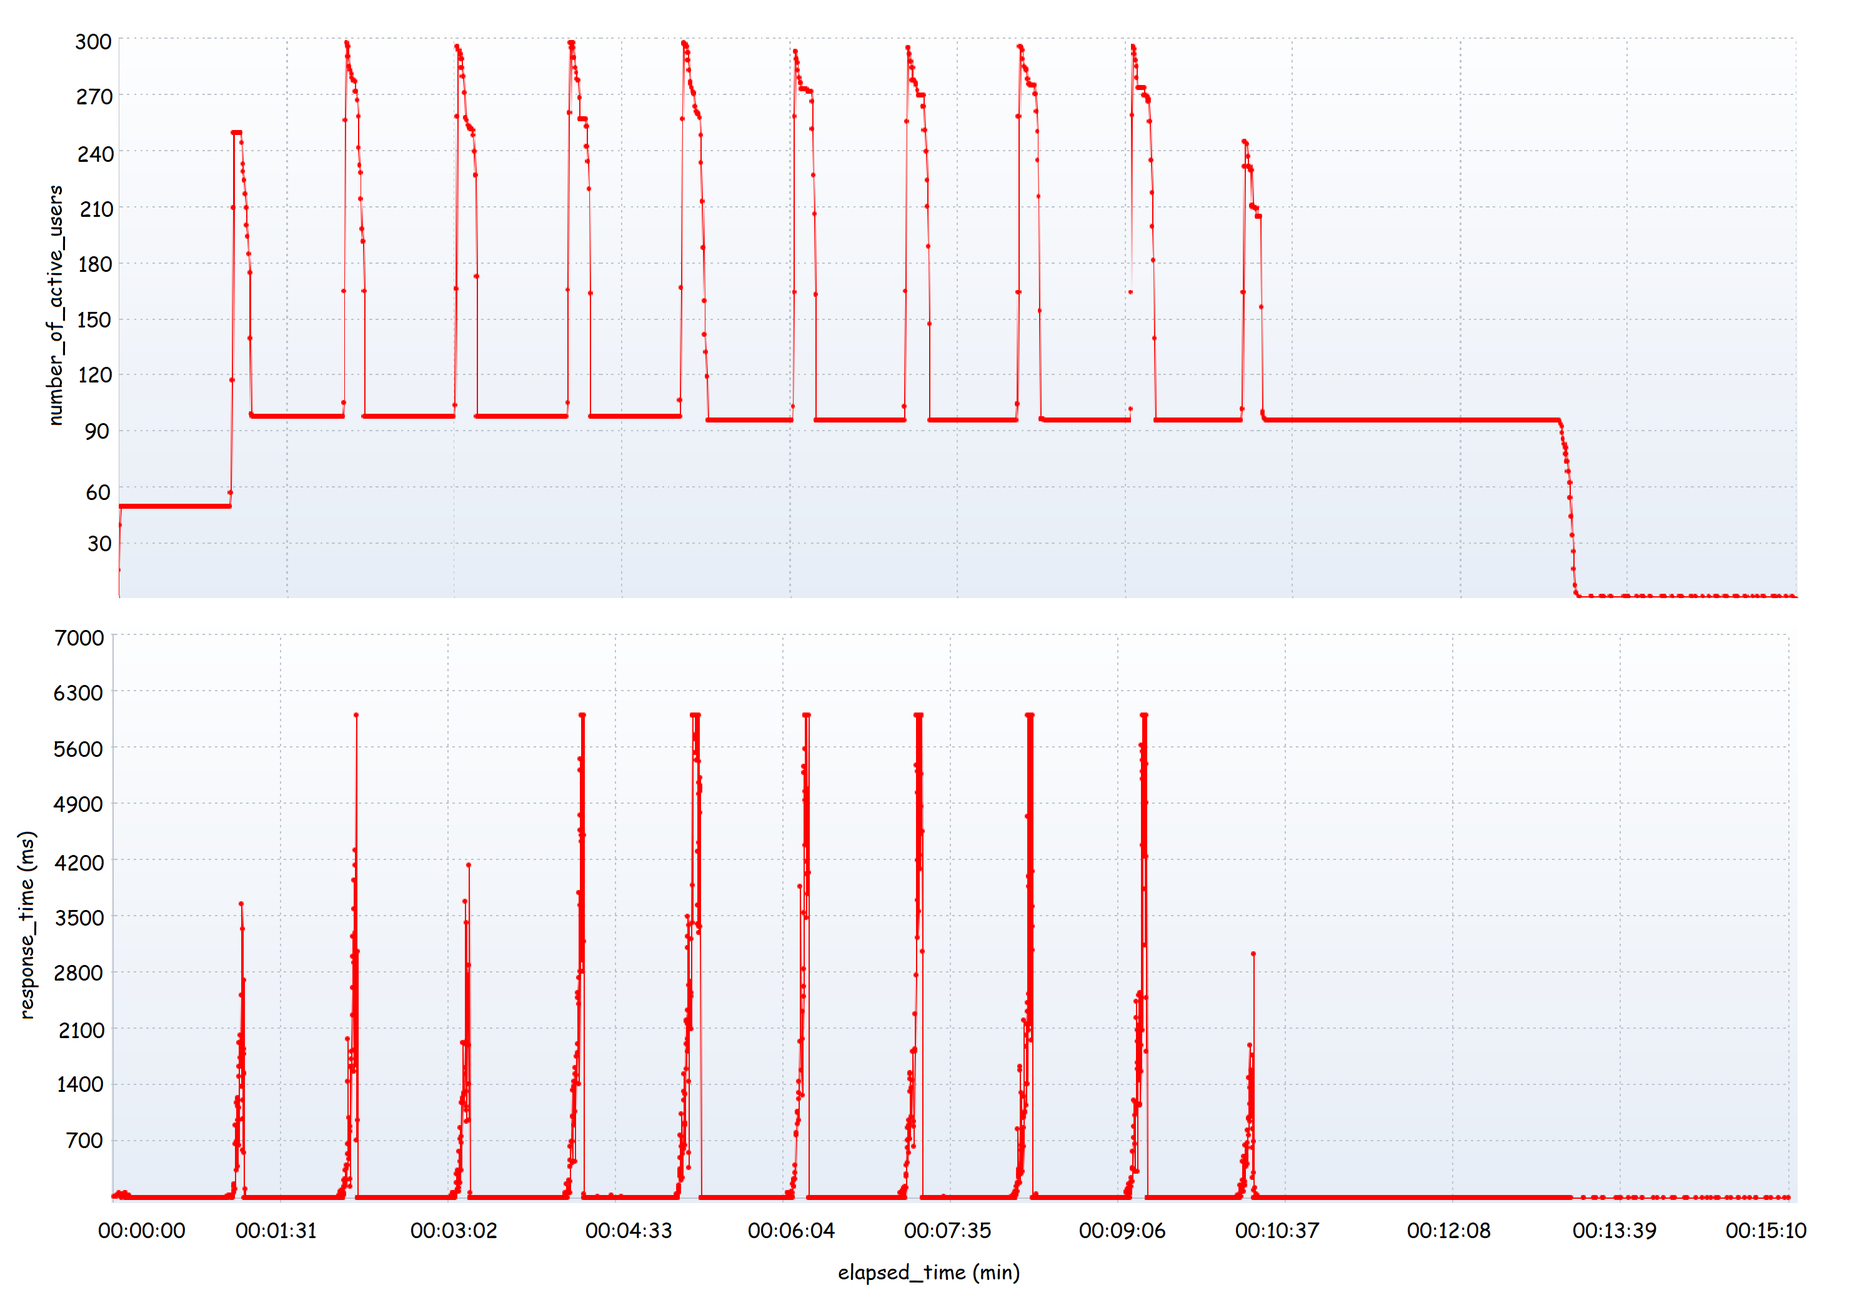
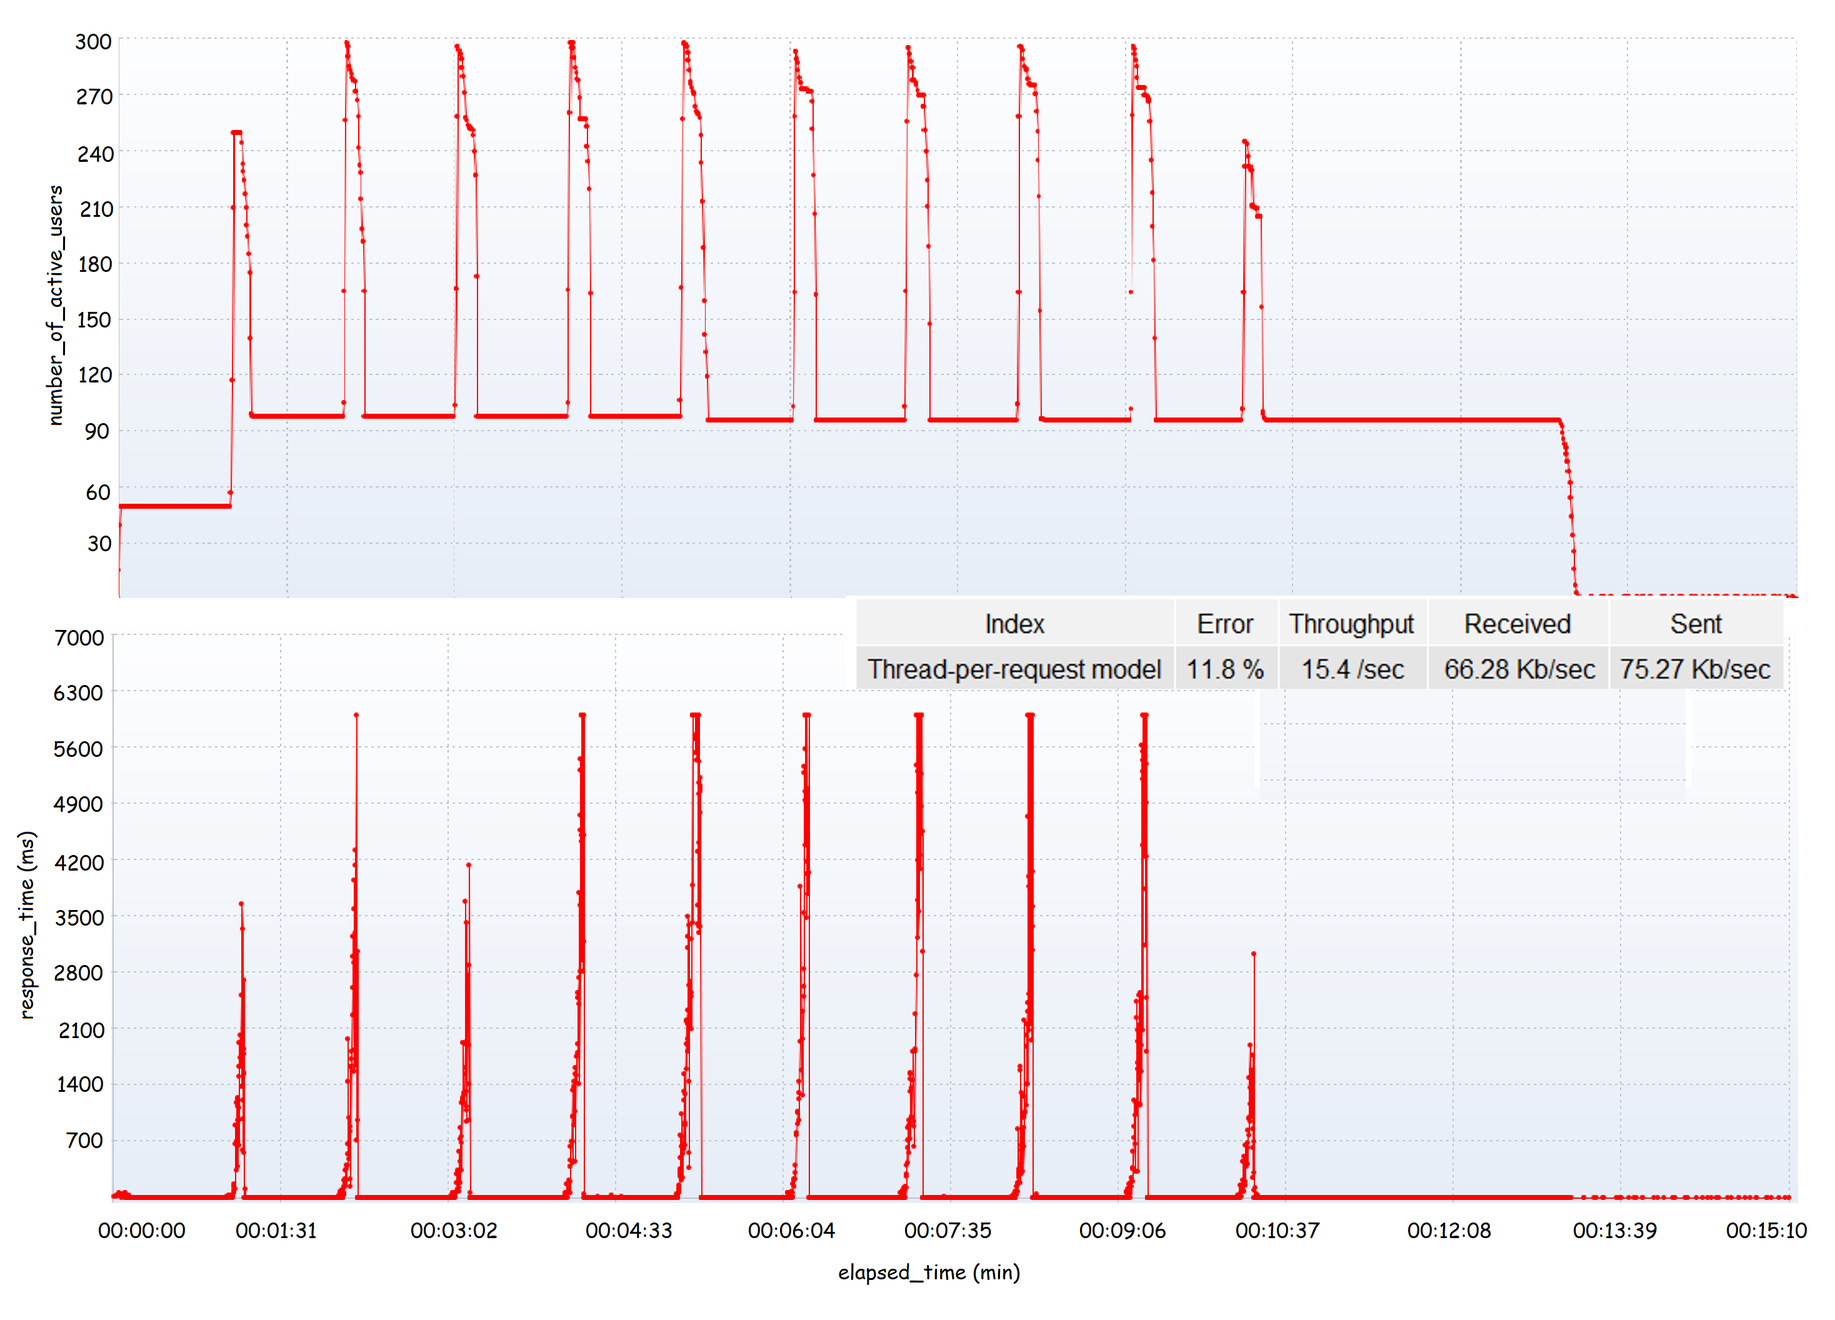
added paragraph for 12000 concurrent users

diff --git a/_posts/2023-01-12-websockets.md b/_posts/2023-01-12-websockets.md
@@ -1,84 +1,79 @@
 ---
 layout: post
-title: "WebSockets: a comparison between open-source technologies"
+title: "WebSockets: a Comparison between Open-Source JVM Technologies"
 author: matteo.ricci
-categories: [ Software Development ]
+categories: [ Software Development, Backend, Web Development, Websocket, Kotlin, Java, Spring-Boot, Ktor, JVM ]
 image: assets/images/websockets/0.png
-excerpt: "Benchmarking  WebSocket server performaces through a simple experiment"
+excerpt: "A Benchmark of some JVM WebSocket Servers"
 ---
 
 ## Introduction
 WebSocket is a communication protocol that supplies two-way communication between client and server.
-When a client starts a connection with a WebSockets server, this latter can push messages to all the connected clients. 
+When a client opens a WebSockets, the server can push back messages at any time. 
 That is in contrast with the **HTTP** client-server model, where a server cannot initiate a 
-message transfer to a client but can only respond to an **HTTP** request started by a client. 
-Further, by keeping the communication channel open, a WebSockets server allows the simultaneous sending and receiving 
+message transfer to a client but can only respond to an **HTTP** request from a client. 
+By keeping the communication channel open, a WebSockets server allows the simultaneous sending and receiving 
 of messages among the connected clients through the server itself. 
 
 <center>
     <img src="{{ site.url }}{{ site.baseurl }}/assets/images/websockets/1.png" width="400">
     <br>
-    <em> A WebSocket server receives messages and notifies subscribers (Image generated by the author with E-Dell)</em>
+    <em> A WebSocket server receives messages and notifies subscribers (Image generated by the author with <a href="https://openai.com/dall-e-2/">E-Dell</a>)</em>
 </center>
-
-In this work, we employed state-of-the-art, open-source, **JVM** technologies to assess the performances of a WebSocket server under progressive system overload. The focus of the study is comparing two event-loop models: **Spring Webflux** and **Ktor**.
-Nonetheless, some room for a didactical discussion will be left, explicitly showing the performance gap achieved by employing a thread-per-request Spring Boot WebSockets engine.
+<br>
+In this work, I employed state-of-the-art, open-source, **JVM** technologies to assess the performances of a WebSocket server under progressive system overload. The focus of the study is comparing two non-blocking models: **Spring Webflux** and **Ktor**.
+We will compare those systems also with a thread-per-request engine. I will leave room for a discussion about the Spring Boot WebSockets engine, highlighting the 
+performance gap between these models.
 
 ## Methods
-Our primary goal is to think about a minimal system involving WebSockets communication so that all the side effects (e.g., latency) are negligible. 
-That is done by implementing an echo server, in which both the server and client run on a local machine.
-This system forwards to the client the message the client has just sent. Such a simple toy model allows us to apply progressive system overload by increasing the number of concurrent users exchanging messages with the echo server. 
-The run is carried out with **Apache JMeter** and is structured in the following way:
-- We consider an initial chunk of 50 users connected to the echo server. 
-- We keep increasing connections in chunks of 200 up to the **maximum overload state**, with 2000 concurrent users.
-- We keep the system in the maximum overload state for 3 minutes.
-- We start dropping out connections in chunks of 400 until the number of active connections drops to 0.
+Our primary goal is to think about a minimal system, making the side effects not relevant. Latency for example.
+This can be done with an echo server, in which both the server and client run on a local machine.
+This system forwards to the client the message the client has just sent. 
+Such a simple toy model allows us to apply progressive system overload by increasing the number of concurrent users. 
+I will perform two different runs for each tecnhology. Both of them are carried out with **Apache JMeter**. 
+
+The first one (from now on **easy mode**) is structered in the following way: 
+- consider an initial chunk of 50 users connected to the echo server. 
+- keep increasing connections in chunks of 200 up to the **maximum overload state**, with 2000 concurrent users.
+- keep the system in the maximum overload state for 3 minutes.
+- start dropping out connections in chunks of 400 until the number of active connections drops to 0.
 If any communication errors happen, the existing connection will be closed, kicking out the user from the echo server.
 
-Separate runs for each of the two event-loop technologies are performed. The following quantities are of interest:
-- raw data describing the server response over time.
-- the actual number of concurrent users over time (may be different from the planned one, since if a communication error happens, the connection will be closed).
-- the percentage of requests processed with an error outcome.
-- the number of exchanged bytes between the concurrent clients and the echo server.
-- the echo-server throughput.
+The second run (from now on **hard mode**) has the following structure:
+- in a time range of 30 seconds, increase the number of active connections from 0 up to 12000
+- keep the system in the maximum overload state for 1000 seconds.
+- drop all the existing connections.
 
-Finally, we perform the simulation using a **5 kb** text sample to exchange between the client and server. 
-In particular, to simulate a real-life scenario, we require every user to exchange messages with the echo server according to a time-based Gaussian distribution. 
+During the simulations, we care about:
+- collect data describing the server response over time.
+- the actual number of concurrent users over time (may be different from the planned one, since if a communication error happens the connection will be closed).
+- the percentage of requests processed with an error outcome.
+- the number of exchanged bytes between the clients and the echo server.
+- the server throughput (number of requests processed per second).
+
+Every simulation is performed using a **5 kb** text sample to exchange between the client and server. 
+
+We will have **many clients** continuously exchanging messages with the server for both **easy** and **hard** modes. 
+In these scenarios, if the delay between consecutive messages from the same user is too little, 
+the server will be unable to deal with the overload. This should be avoided.
+A good compromise is imposing every user has a *physiological* delay when exchaning consecutive messages.
+This perfectly matches with a real-world-use case. 
+For this reason, I modeled the delay between consecutive messages of a single user with a Gaussian distribution. 
+This distribution has **mean value** of **5 sec.** and **standard deviation** of **2 sec.** 
 
 <center>
     <img src="{{ site.url }}{{ site.baseurl }}/assets/images/websockets/3.png" width="400">
     <br>
+    <br>
     <em> Gaussian distribution of the delay every user exchanges messages with. The image is generated by the author.</em>
 </center>
-
-The Gaussian distribution means value and standard deviation are 5 and 2 seconds. 
-This means that the probability every user waits between 1 and 9 seconds before exchanging the second message with the echo server is almost maximized (**95%**).
-
-## Results and Conclusions
-In this section, we present the results achieved using the methodology explained in the previous section.
-<center>
-    <img src="{{ site.url }}{{ site.baseurl }}/assets/images/websockets/ktor_webflux_2000.png" width="1000">
-    <br>
-    <em> In the top panel the number of connected users during the run is presented. In the bottom panel, the comparison between the even-loop-based echo server performances is shown. The Image produced by the author using the software R. </em>
-</center>
-For both the technologies employed, none of the incoming requests have an error outcome. 
-Also, the amount of exchanged Kb per second and the server throughputs are very similar: so far seems that both technologies are pretty performant. 
-
-However, let's try to deeper investigate what we have achieved to have a more solid understanding of what happened.
-The dotted lines represent the raw data of the server response over time, directly from **Apache JMeter** without any post-processing. 
-As we can see, randomly distributed higher peaks corresponding to fluctuations up to 20 ms are present. 
-To understand the relative impact of those peaks with respect to the averagely observed values, 
-we made an interpolation of the raw data using the software **R**. The results of this procedure are shown with solid lines. 
-Looking at those lines, it is clear that, regardless of fluctuations, 
-the average response time for **Ktor** lies slightly below 
-the one observed for **WebFlux**, thus providing a better understanding of what is going on with the 
-overall simulation parameters in the table. 
-Indeed, the interpolated trends reflect the slightly higher server throughput and the number of bytes 
-exchanged with the concurrent clients achieved by **Ktor**. Most importantly, it indicates the low impact of the observed fluctuations along the simulation, showing that both technologies ensure stability during the run. 
+<br>
+Using this model, we ensure that *averagely* each user exchanges a message with the server every 5 seconds and 
+the probability of waiting between 1 and 9 seconds before exchanging another message is almost maximized (**95%**).
 
 The code snippets for **Ktor** and **Webflux** echo servers are listed below.
 
-<p style="margin : 0; padding-bottom:0;"> <em> Ktor WebSocket server.</em> </p>
+<p style="margin : 0; padding-bottom:0;"> <em> Ktor WebSocket server. Ktor version: 2.3.2 -see <a href="https://ktor.io/docs/websocket.html">here</a>).</em> </p>
 ```kotlin
 fun Application.configureSockets() {
     install(WebSockets) {
@@ -100,7 +95,7 @@ fun Application.configureSockets() {
 ```
 
 
-<p style="margin : 0; padding-bottom:0;"> <em> WebFlux WebSocket server.</em> </p>
+<p style="margin : 0; padding-bottom:0;"> <em> WebFlux WebSocket server. Spring-Boot version: 2.6.7</em> </p>
 ```java
 @Component
 public class ReactiveServerWebSocketHandler implements WebSocketHandler {
@@ -113,40 +108,55 @@ public class ReactiveServerWebSocketHandler implements WebSocketHandler {
                 .map(session::textMessage)
         );
     }
-
-    @Override
-    public @NotNull
-    List<String> getSubProtocols() {
-        return WebSocketHandler.super.getSubProtocols();
-    }
 }
 ```
 
+## Maximum overload of 2000 users (easy mode)
+In this section I investigate how the systems responds when the maximum amount of concurrent users is reasonably small and the maximum overload state is reached progressively.
+<center>
+    <img src="{{ site.url }}{{ site.baseurl }}/assets/images/websockets/ktor_webflux_2000.png" width="1000">
+    <br>
+    <em> In the top panel the number of connected users during the run is presented. In the bottom panel, the comparison between the even-loop-based echo server performances is shown. The Image produced by the author using the software R. </em>
+</center>
+<br>
+For both the technologies employed, none of the incoming requests have an error outcome. 
+Also, the amount of exchanged Kb per second and the server throughputs are very similar: so far it seems that both technologies are pretty performant. 
 
-After this digression, we can conclude that **Ktor** has performed slightly better, although we have observed a very 
-high-quality performance for **WebFlux**. 
+However, let's try to deeper investigate the results.
+The dotted lines represent the raw data of the server response over time. 
+As we can see, randomly distributed higher peaks corresponding to fluctuations up to 20 ms are present. 
+To understand the relative impact of those peaks with respect to the averagely observed values, 
+I made an interpolation of the raw data using the software **R**. The results of this procedure are shown with solid lines. 
+Looking at those lines, it is clear that, regardless of fluctuations, 
+the average response time for **Ktor** lies slightly below 
+the one observed for **WebFlux**. This clarifies what is going on with the overall simulation parameters reported in the table. 
+Indeed, the interpolated trends reflect the slightly better simulation results of **Ktor**. 
+Most importantly, it indicates the low impact of the observed fluctuations. So far, both the technologies ensure stability during the run. 
 
-However, we should point out that the presented results rely on a single run, which means they lack statistical ensemble wideness. 
-In other words, to give a better outcome about the best-performing, we should carry out many runs and consider the average results from each of them.
-
-## A Didactical Digression
-It is interesting to carry out the same experiment by adopting a thread-per-request model, to observe the performance gap with the event-loop models presented so far. 
-We can build up the same echo server employing this time the standard WebSocket engine provided by Spring Boot. 
-Carrying out the same experiment as explained, we achieved the following results.
+## Maximum overload of 12000 users (hard mode)
+In this case, the goal is to study what happens when the time under maximum overload is longer and also the number of concurrent users is larger.
 
 <center>
-    <img src="{{ site.url }}{{ site.baseurl }}/assets/images/websockets/normal-results.png" width="1000">
+    <img src="{{ site.url }}{{ site.baseurl }}/assets/images/websockets/ktor_webflux_12000.png" width="1000">
     <br>
-    <em> In the top panel the number of connected users during the run is presented. In the bottom panel, the comparison between the even-loop-based echo server performances is shown. Image produced using raw data from JMeter. </em>
+    <em> In the top panel the number of connected users during the run. In the bottom panel, the comparison between the even-loop-based echo server performances is shown. The Image produced by the author using the software R. </em>
 </center>
+<br>
+First of all, the data in the table show that both the systems were able to correctly process all the incoming requests.
+Also, the server throughputs  and the amount of exchanged Kb/sec are very similar. 
+Anyway, in constrast to what experienced before, **the two systems bheave differently against this larger overload**. 
+In this case Ktor shows larger fluctuations of the response time, while Webflux  is stable. 
+This is confirmed by the interpolated trends. Those trends indicate that WebFlux takes averagely **6/7 ms** less than Ktor to respond to the client.
+The shift between the two trends in this case is clearly due to the impact of the observed instabilities.  
+Interestingly, this suggests the usage of the WebFlux non-blocking engine for systems in which a larger amount of concurrency is predicted.
 
-In this case, the echo server can't handle more than roughly 100 concurrent connections, as indicated by the overall results parameters of the run. In particular, an error percentage of around 13% and a lower server throughput (16.5 sec) are detected. 
-Also, looking at the server response over time, we can see every peak seems to appear at each time instant a new connections chunk comes in. 
-That, in turn, forces the echo server -unable to deal with such an overload- to rebalance, dropping a large number of existing connections, as shown in the top panel of the last picture.  
+Finally, it is worth to point out that the results presented rely on single runs. This means they lack statistical ensemble wideness. 
+In other words, to give a better outcome about the best-performing, the number of simulations to carry out should be larger.
 
-What observed, clearly indicates that the employed **thread-per-request** model can't handle a high number of concurrent requests, 
-suggesting that having a single thread taking care of the whole processing of a single request is not optimal when the number of concurrent clients becomes relatively high. That is quite intuitive thinking about the finite size of the thread pool the **JVM** has. 
 
+## A Didactical Digression
+It is interesting to do the same experiment in the **easy mode** by adopting a thread-per-request model. 
+We build the same kind of echo-server but this time I use the standard WebSocket engine provided by Spring Boot. 
 <p style="margin : 0; padding-bottom:0;"> <em> Thread-per-request WebSocket server.</em> </p>
 ```java
 @Component
@@ -164,8 +174,30 @@ public class ServerWebSocketHandler extends TextWebSocketHandler {
     }
 }
 ```
+<center>
+    <img src="{{ site.url }}{{ site.baseurl }}/assets/images/websockets/normal-results.png" width="1000">
+    <br>
+    <em> In the top panel the number of connected users during the run. In the bottom panel, the comparison between the even-loop-based echo server performances is shown. Image produced using raw data from JMeter. </em>
+</center>
+<br>
+In this case, the echo server can't handle more than roughly 100 concurrent connections, as indicated by the overall results parameters of the run. 
+In particular, an error percentage of around 12 % and a lower server throughput (15.4 /sec) are detected. 
+Also, looking at the server response over time, we can see a response time peak at every instant a new connections chunk comes in. 
+The interpretation we can give on those results is intuitive. 
+The trends clearly indicate that the thread-per-request server is unable to process a large amount of requests.
+Indeed, looking at the trends, we observe that the servers starts kicking out users. 
+This happens every time the number of concurrent connections rise above around 100.
 
-In conclusion, we created an echo-server model to assess the performances of state-of-the-art event loop technologies, 
+This indicates that the employed **thread-per-request** model can't handle a high number of concurrent requests: 
+this model is not optimal when the number of concurrent clients is high. 
+An explanation can be provided thinking about the fact that the **JVM** thread pool has a finite size. Let us call this size **S**. 
+The thred-per-request model works in such a way a single thread will take care of the entire **life-cycle** of an incoming request. 
+Let us say the duration of this lyfe-cycle is **T**. 
+If the number of concurrent requests is greater than **S** and **T** is non-negligible, then the system will run out of resources.
+This also explains why non-blocking models are preferred for those kind of applications.
+
+
+In conclusion, I created an echo-server model to assess the performances of state-of-the-art event loop technologies, 
 showcasing their high-level performances. 
-On the other hand, we have created the same echo server employing a thread-per-request engine, showing the inadequacy of this model to handle a higher amount of concurrent requests. 
-
+On the other hand, I have created the same echo server employing a thread-per-request engine.
+I compared the results of both non-blocking and thread-per-request strategy and I explicitely showed the non-blocking model outperforms the thread-per-request one.
